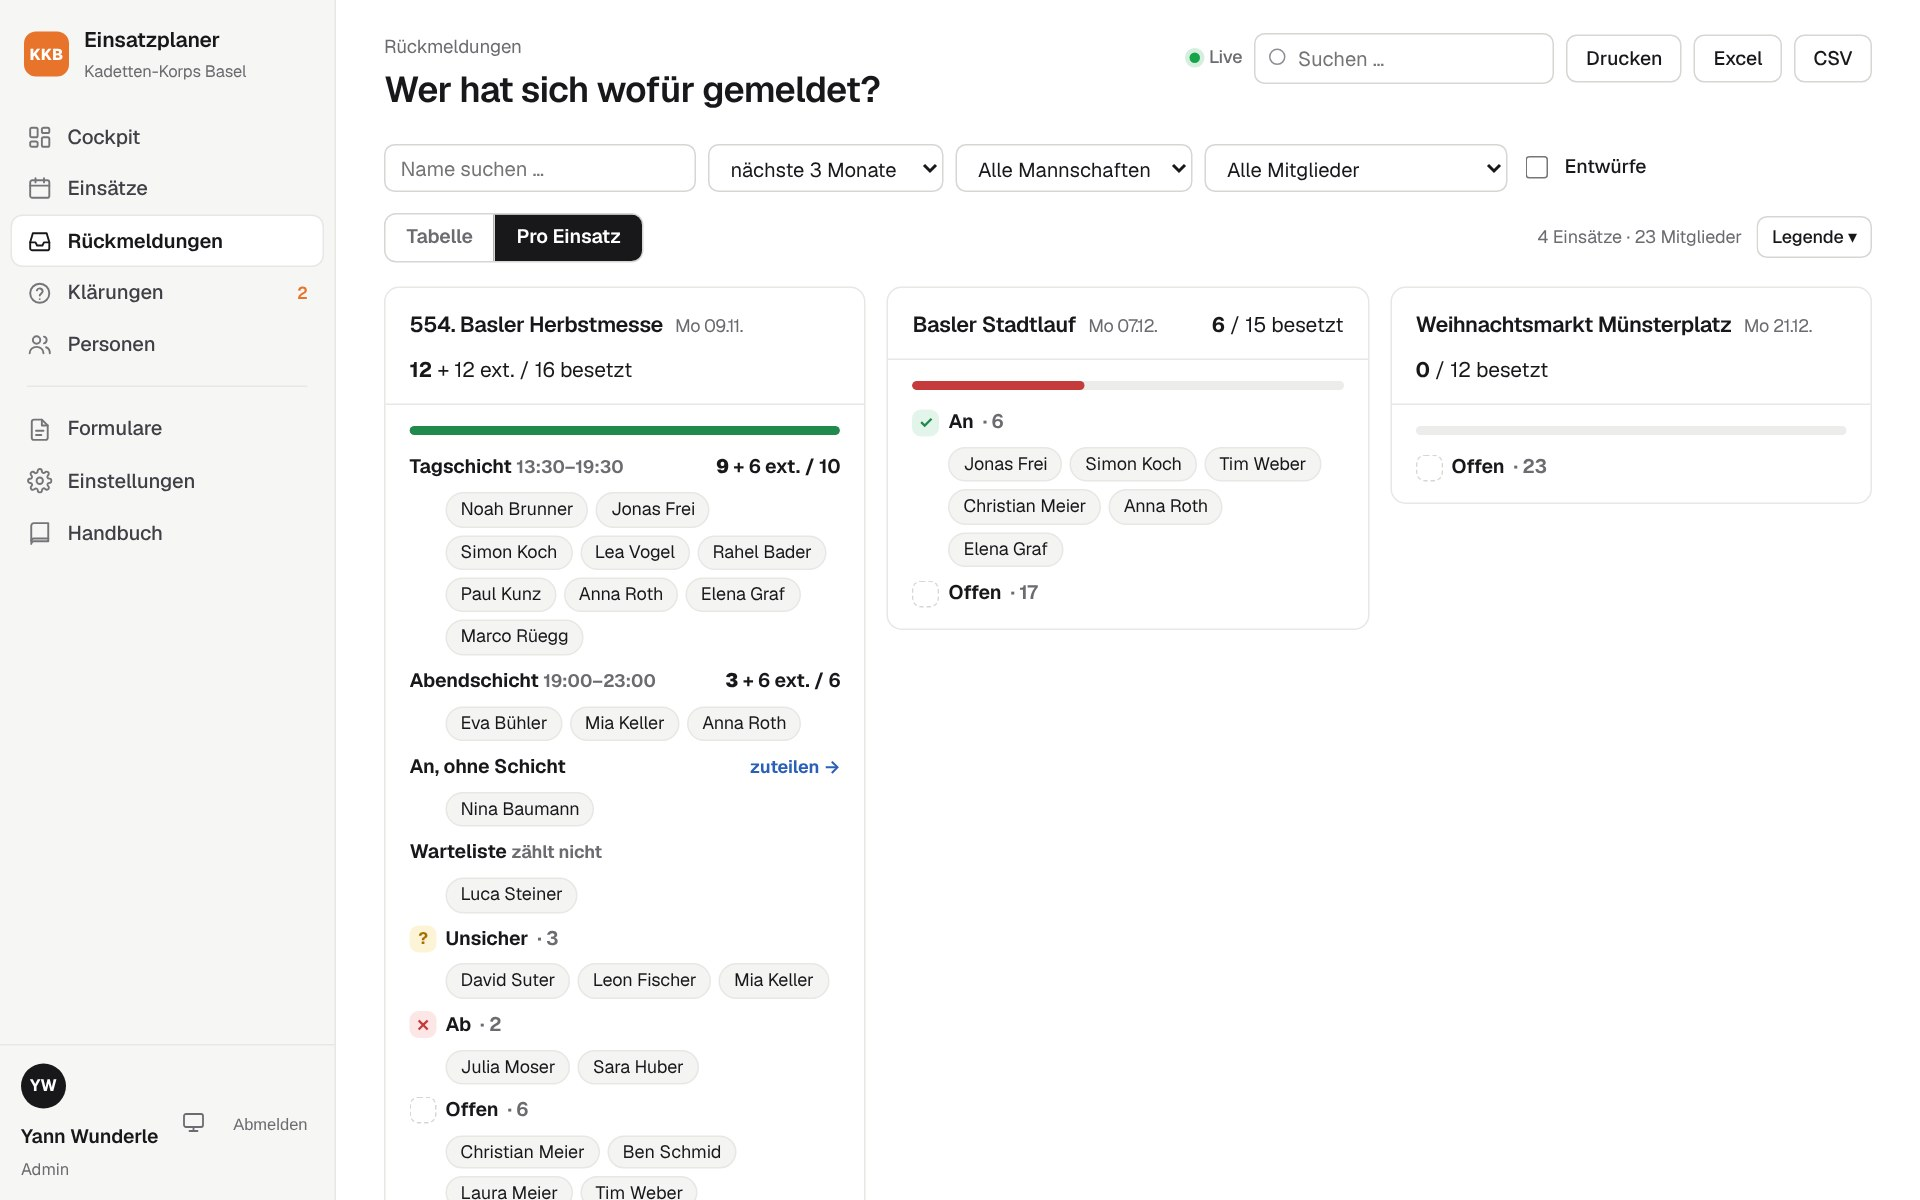
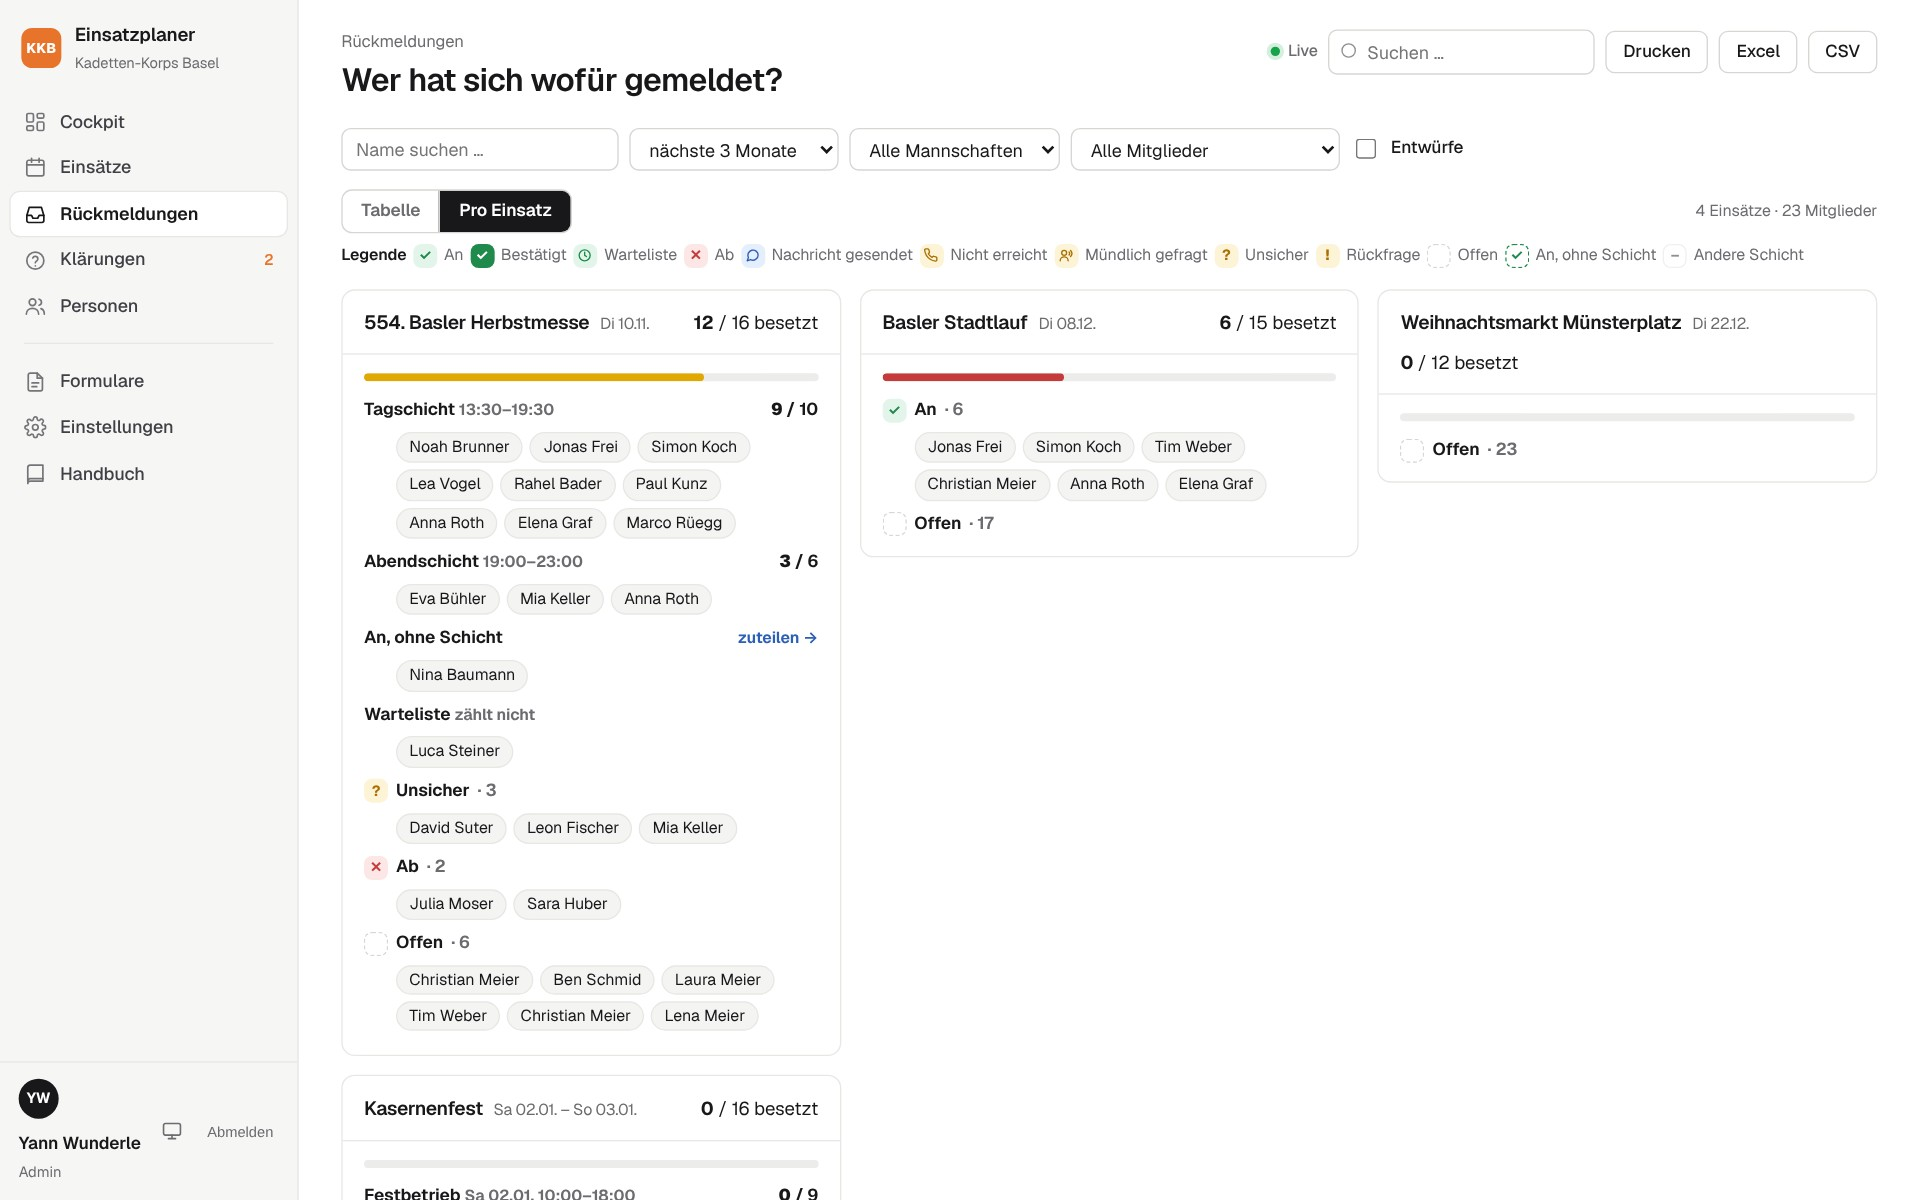
Rückmeldungen: Legende immer sichtbar statt im Menü «Legende ▾»
- Eigene Zeile direkt über der Tabelle, in beiden Ansichten
- Symbol und Text bleiben beim Umbruch zusammen (Handy)
- Handbuch-Text und Bilder 14, 15 nachgeführt

Claude-Session: https://claude.ai/code/session_01EBemd3w9mirf2mHogtMzS7

diff --git a/public/css/ruhig.css b/public/css/ruhig.css
@@ -372,9 +372,10 @@ tr.group-row strong { font-weight: 600; }
 .person-group-head { display: flex; align-items: center; gap: 8px; padding: 10px 16px 0; }
 .person-group { padding-top: 6px; }
 .person-group + .person-group-head { border-top: 1px solid var(--line); margin-top: 4px; padding-top: 12px; }
-/* Rückmeldungen: Legende im Menü */
-.legend-row { align-items: center; gap: 10px; }
-.legend-menu { display: grid !important; grid-template-columns: auto 1fr; gap: 6px 8px; align-items: center; padding: 10px 12px; min-width: 240px; }
+/* Rückmeldungen: Legende immer sichtbar, eine Zeile über der Tabelle */
+.fb-legend { gap: 6px 14px; color: var(--muted); }
+.fb-legend-title { font-weight: 600; color: var(--text); }
+.fb-legend-item { display: inline-flex; align-items: center; gap: 5px; white-space: nowrap; }
 .help-fold-card > summary { list-style: none; cursor: pointer; }
 .help-fold-card > summary::-webkit-details-marker { display: none; }
 .help-fold-card[open] > summary .btn { display: none; }

diff --git a/docs/handbuch/handbuch.md b/docs/handbuch/handbuch.md
@@ -417,7 +417,7 @@ Die Seite **Rückmeldungen** beantwortet die wichtigste Frage der Aufgebotsstell
 
 - Mitglieder als Zeilen, Einsätze als Spalten. Kopfzeile und Namensspalte bleiben beim Scrollen stehen.
 - Im Spaltenkopf jedes Einsatzes steht die Besetzung als Balken, z. B. «11 / 16». Sie zählt gleich wie der Reiter «Schichten» und die Übersicht: Anmeldungen mit Status Neu, Rückfrage oder Bestätigt. Die Warteliste zählt nicht.
-- **Symbole:** ✓ An, ✕ Ab, ? Unsicher, leeres Feld = Offen. Dazu gibt es eigene Symbole für den genaueren Stand: ein grün gefülltes ✓ für eine bestätigte Anmeldung, eine Uhr für die Warteliste, eine blaue Sprechblase für «Nachricht gesendet, Antwort offen», ein gelbes Telefon für «angerufen, nicht erreicht», eine sprechende Person für «mündlich gefragt, weiss es noch nicht» und ! für «Rückfrage nötig». Der Knopf **Legende ▾** rechts über der Tabelle erklärt alle Symbole. Das Symbol zeigt immer nur den neuesten Stand.
+- **Symbole:** ✓ An, ✕ Ab, ? Unsicher, leeres Feld = Offen. Dazu gibt es eigene Symbole für den genaueren Stand: ein grün gefülltes ✓ für eine bestätigte Anmeldung, eine Uhr für die Warteliste, eine blaue Sprechblase für «Nachricht gesendet, Antwort offen», ein gelbes Telefon für «angerufen, nicht erreicht», eine sprechende Person für «mündlich gefragt, weiss es noch nicht» und ! für «Rückfrage nötig». Die **Legende** direkt über der Tabelle erklärt alle Symbole. Sie ist immer sichtbar, in beiden Ansichten. Das Symbol zeigt immer nur den neuesten Stand.
 - **Wer hat das gesetzt?** Fährt man mit der Maus über ein Feld, steht dort der letzte Eintrag mit Name und Zeit, z. B. «Zuletzt: Anmeldung: Bestätigt – Lena Meier, heute 14:20 (4 Einträge im Verlauf)». Hat sich jemand selbst über das Formular gemeldet, steht «Person selbst».
 - Ein Klick auf ein Feld öffnet immer das Fenster für einen Kontaktversuch, auch bei ✓ oder ✕. Oben steht der aktuelle Stand (z. B. «An · Anmeldung: Bestätigt · Formular · gesetzt von Lena Meier, heute 14:20») mit einem Link zur Anmeldung. Darunter folgt der **Verlauf** (siehe unten). Dort lässt sich auch **«Unsicher – weiss es noch nicht»** eintragen oder mit **Alles zurücksetzen** neu beginnen. Erfasst man bei einer bestehenden Anmeldung «Abgesagt», wird sie als zurückgezogen markiert. «Zugesagt» macht eine zurückgezogene Anmeldung wieder aktiv.
 - Unten stehen pro Einsatz die Summen An · Ab · Unsicher · Offen.
